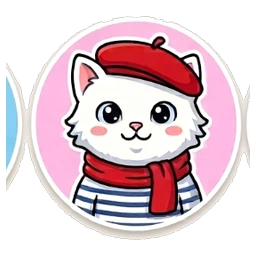
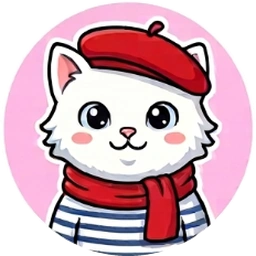
fix: 프로필 및 캐릭터 이미지 크롭 좌표 정밀 보정

diff --git a/index.html b/index.html
@@ -195,7 +195,7 @@
   </script>
 
   <!-- Custom CSS & Keyframe Animations -->
-  <link rel="stylesheet" href="css/style.css?v=3">
+  <link rel="stylesheet" href="css/style.css?v=5">
 </head>
 
 <body class="bg-slate-100 font-body-md text-body-md text-on-surface flex justify-center min-h-screen select-none antialiased">
@@ -215,7 +215,7 @@
             <!-- 상단 프로필 고양이 아바타 버튼 (클릭 시 프로필 선택 모달 열기) -->
             <button id="btn-header-profile" type="button" class="relative flex-shrink-0 cursor-pointer hover:scale-105 active:scale-95 transition-all p-0.5 rounded-full ring-2 ring-primary/25 hover:ring-primary focus:outline-none select-none" title="프로필 고양이 변경">
               <div class="w-10 h-10 rounded-full overflow-hidden flex items-center justify-center bg-secondary-fixed ring-1 ring-secondary-container shadow-sm">
-                <img id="header-mascot-img" alt="프로필 고양이" class="w-full h-full object-cover rounded-full" src="assets/profiles/profile-spanish.webp">
+                <img id="header-mascot-img" alt="프로필 고양이" class="w-full h-full object-cover rounded-full" src="assets/profiles/profile-spanish.webp?v=5">
               </div>
               <div class="absolute -bottom-1 -right-1 bg-surface-container-lowest border border-outline-variant/60 rounded-full w-4 h-4 shadow-sm flex items-center justify-center text-[9px] font-bold ring-1 ring-surface">
                 <span>✏</span>
@@ -981,7 +981,7 @@
           <div id="settings-streak-banner" class="mt-2 mb-2 bg-surface-container rounded-2xl p-4 flex items-center justify-between shadow-xs relative overflow-hidden">
             <div class="flex items-center gap-3 z-10">
               <div id="settings-streak-avatar-container" class="w-12 h-12 rounded-full overflow-hidden flex-shrink-0 shadow-sm bg-surface-container-lowest flex items-center justify-center ring-2 ring-primary/30 cursor-pointer hover:scale-105 active:scale-95 transition-transform" title="프로필 변경">
-                <img id="settings-streak-avatar-img" alt="프로필 고양이 아바타" class="w-full h-full object-cover rounded-full" src="assets/profiles/profile-spanish.webp"/>
+                <img id="settings-streak-avatar-img" alt="프로필 고양이 아바타" class="w-full h-full object-cover rounded-full" src="assets/profiles/profile-spanish.webp?v=5"/>
               </div>
               <div class="flex flex-col">
                 <div class="flex items-center gap-1.5">
@@ -1014,7 +1014,7 @@
               <!-- 1. 스페인 냥이 -->
               <button type="button" class="quick-avatar-btn flex flex-col items-center p-1.5 rounded-xl cursor-pointer hover:bg-slate-50 active:scale-95 transition-all text-center group" data-avatar-file="profile-spanish.webp" data-avatar-name="스페인 냥이">
                 <div class="quick-avatar-ring relative w-12 h-12 rounded-full p-0.5 border-2 border-primary bg-white shadow-xs transition-all">
-                  <img src="assets/profiles/profile-spanish.webp" alt="스페인 냥이" class="w-full h-full object-cover rounded-full">
+                  <img src="assets/profiles/profile-spanish.webp?v=5" alt="스페인 냥이" class="w-full h-full object-cover rounded-full">
                   <div class="quick-avatar-check absolute -top-1 -right-1 w-4 h-4 rounded-full bg-primary text-white flex items-center justify-center shadow-xs">
                     <span class="material-symbols-outlined text-[11px] font-bold">check</span>
                   </div>
@@ -1025,7 +1025,7 @@
               <!-- 2. 잉글리시 냥이 -->
               <button type="button" class="quick-avatar-btn flex flex-col items-center p-1.5 rounded-xl cursor-pointer hover:bg-slate-50 active:scale-95 transition-all text-center group" data-avatar-file="profile-english.webp" data-avatar-name="잉글리시 냥이">
                 <div class="quick-avatar-ring relative w-12 h-12 rounded-full p-0.5 border border-slate-200 bg-slate-50 transition-all">
-                  <img src="assets/profiles/profile-english.webp" alt="잉글리시 냥이" class="w-full h-full object-cover rounded-full">
+                  <img src="assets/profiles/profile-english.webp?v=5" alt="잉글리시 냥이" class="w-full h-full object-cover rounded-full">
                   <div class="quick-avatar-check hidden absolute -top-1 -right-1 w-4 h-4 rounded-full bg-primary text-white flex items-center justify-center shadow-xs">
                     <span class="material-symbols-outlined text-[11px] font-bold">check</span>
                   </div>
@@ -1036,7 +1036,7 @@
               <!-- 3. 아티스트 냥이 -->
               <button type="button" class="quick-avatar-btn flex flex-col items-center p-1.5 rounded-xl cursor-pointer hover:bg-slate-50 active:scale-95 transition-all text-center group" data-avatar-file="profile-artist.webp" data-avatar-name="아티스트 냥이">
                 <div class="quick-avatar-ring relative w-12 h-12 rounded-full p-0.5 border border-slate-200 bg-slate-50 transition-all">
-                  <img src="assets/profiles/profile-artist.webp" alt="아티스트 냥이" class="w-full h-full object-cover rounded-full">
+                  <img src="assets/profiles/profile-artist.webp?v=5" alt="아티스트 냥이" class="w-full h-full object-cover rounded-full">
                   <div class="quick-avatar-check hidden absolute -top-1 -right-1 w-4 h-4 rounded-full bg-primary text-white flex items-center justify-center shadow-xs">
                     <span class="material-symbols-outlined text-[11px] font-bold">check</span>
                   </div>
@@ -1047,7 +1047,7 @@
               <!-- 4. 탐험가 냥이 -->
               <button type="button" class="quick-avatar-btn flex flex-col items-center p-1.5 rounded-xl cursor-pointer hover:bg-slate-50 active:scale-95 transition-all text-center group" data-avatar-file="profile-explorer.webp" data-avatar-name="탐험가 냥이">
                 <div class="quick-avatar-ring relative w-12 h-12 rounded-full p-0.5 border border-slate-200 bg-slate-50 transition-all">
-                  <img src="assets/profiles/profile-explorer.webp" alt="탐험가 냥이" class="w-full h-full object-cover rounded-full">
+                  <img src="assets/profiles/profile-explorer.webp?v=5" alt="탐험가 냥이" class="w-full h-full object-cover rounded-full">
                   <div class="quick-avatar-check hidden absolute -top-1 -right-1 w-4 h-4 rounded-full bg-primary text-white flex items-center justify-center shadow-xs">
                     <span class="material-symbols-outlined text-[11px] font-bold">check</span>
                   </div>
@@ -1731,7 +1731,7 @@
         <div class="flex flex-col items-center justify-center mb-3.5">
           <div class="relative inline-block">
             <div id="current-avatar-container" class="w-[88px] h-[88px] rounded-full overflow-hidden border-4 border-[#22c55e] p-0.5 bg-white shadow-md relative flex items-center justify-center">
-              <img id="current-avatar-img" alt="선택된 프로필 고양이" class="w-full h-full object-cover rounded-full transition-transform duration-200" src="assets/profiles/profile-spanish.webp" />
+              <img id="current-avatar-img" alt="선택된 프로필 고양이" class="w-full h-full object-cover rounded-full transition-transform duration-200" src="assets/profiles/profile-spanish.webp?v=5" />
             </div>
             <div class="absolute bottom-0 right-0 w-7 h-7 bg-[#22c55e] text-white rounded-full flex items-center justify-center border-2 border-white shadow">
               <span class="material-symbols-outlined text-[15px]" style="font-variation-settings: 'FILL' 1;">pets</span>
@@ -1743,9 +1743,9 @@
         <div class="mb-4">
           <div class="flex items-center justify-between gap-2">
             <!-- 1. 스페인 냥이 (오렌지) -->
-            <button class="avatar-option flex flex-col items-center flex-1 py-1 rounded-xl cursor-pointer transition-all" data-avatar-id="spanish" data-avatar-name="스페인 냥이" data-avatar-file="profile-spanish.webp" data-avatar-src="assets/profiles/profile-spanish.webp" type="button">
+            <button class="avatar-option flex flex-col items-center flex-1 py-1 rounded-xl cursor-pointer transition-all" data-avatar-id="spanish" data-avatar-name="스페인 냥이" data-avatar-file="profile-spanish.webp" data-avatar-src="assets/profiles/profile-spanish.webp?v=5" type="button">
               <div class="avatar-ring relative w-[52px] h-[52px] rounded-full p-0.5 border-2 border-[#22c55e] bg-white transition-all shadow-xs">
-                <img src="assets/profiles/profile-spanish.webp" alt="스페인 냥이" class="w-full h-full object-cover rounded-full">
+                <img src="assets/profiles/profile-spanish.webp?v=5" alt="스페인 냥이" class="w-full h-full object-cover rounded-full">
                 <div class="avatar-check absolute -top-1 -right-1 w-4 h-4 rounded-full bg-[#22c55e] text-white flex items-center justify-center shadow-xs">
                   <span class="material-symbols-outlined text-[11px] font-bold">check</span>
                 </div>
@@ -1754,9 +1754,9 @@
             </button>
 
             <!-- 2. 잉글리시 냥이 (하늘색) -->
-            <button class="avatar-option flex flex-col items-center flex-1 py-1 rounded-xl cursor-pointer transition-all" data-avatar-id="english" data-avatar-name="잉글리시 냥이" data-avatar-file="profile-english.webp" data-avatar-src="assets/profiles/profile-english.webp" type="button">
+            <button class="avatar-option flex flex-col items-center flex-1 py-1 rounded-xl cursor-pointer transition-all" data-avatar-id="english" data-avatar-name="잉글리시 냥이" data-avatar-file="profile-english.webp" data-avatar-src="assets/profiles/profile-english.webp?v=5" type="button">
               <div class="avatar-ring relative w-[52px] h-[52px] rounded-full p-0.5 border border-slate-200 bg-slate-50 transition-all">
-                <img src="assets/profiles/profile-english.webp" alt="잉글리시 냥이" class="w-full h-full object-cover rounded-full">
+                <img src="assets/profiles/profile-english.webp?v=5" alt="잉글리시 냥이" class="w-full h-full object-cover rounded-full">
                 <div class="avatar-check hidden absolute -top-1 -right-1 w-4 h-4 rounded-full bg-[#22c55e] text-white flex items-center justify-center shadow-xs">
                   <span class="material-symbols-outlined text-[11px] font-bold">check</span>
                 </div>
@@ -1765,9 +1765,9 @@
             </button>
 
             <!-- 3. 아티스트 냥이 (핑크) -->
-            <button class="avatar-option flex flex-col items-center flex-1 py-1 rounded-xl cursor-pointer transition-all" data-avatar-id="artist" data-avatar-name="아티스트 냥이" data-avatar-file="profile-artist.webp" data-avatar-src="assets/profiles/profile-artist.webp" type="button">
+            <button class="avatar-option flex flex-col items-center flex-1 py-1 rounded-xl cursor-pointer transition-all" data-avatar-id="artist" data-avatar-name="아티스트 냥이" data-avatar-file="profile-artist.webp" data-avatar-src="assets/profiles/profile-artist.webp?v=5" type="button">
               <div class="avatar-ring relative w-[52px] h-[52px] rounded-full p-0.5 border border-slate-200 bg-slate-50 transition-all">
-                <img src="assets/profiles/profile-artist.webp" alt="아티스트 냥이" class="w-full h-full object-cover rounded-full">
+                <img src="assets/profiles/profile-artist.webp?v=5" alt="아티스트 냥이" class="w-full h-full object-cover rounded-full">
                 <div class="avatar-check hidden absolute -top-1 -right-1 w-4 h-4 rounded-full bg-[#22c55e] text-white flex items-center justify-center shadow-xs">
                   <span class="material-symbols-outlined text-[11px] font-bold">check</span>
                 </div>
@@ -1776,9 +1776,9 @@
             </button>
 
             <!-- 4. 탐험가 냥이 (민트) -->
-            <button class="avatar-option flex flex-col items-center flex-1 py-1 rounded-xl cursor-pointer transition-all" data-avatar-id="explorer" data-avatar-name="탐험가 냥이" data-avatar-file="profile-explorer.webp" data-avatar-src="assets/profiles/profile-explorer.webp" type="button">
+            <button class="avatar-option flex flex-col items-center flex-1 py-1 rounded-xl cursor-pointer transition-all" data-avatar-id="explorer" data-avatar-name="탐험가 냥이" data-avatar-file="profile-explorer.webp" data-avatar-src="assets/profiles/profile-explorer.webp?v=5" type="button">
               <div class="avatar-ring relative w-[52px] h-[52px] rounded-full p-0.5 border border-slate-200 bg-slate-50 transition-all">
-                <img src="assets/profiles/profile-explorer.webp" alt="탐험가 냥이" class="w-full h-full object-cover rounded-full">
+                <img src="assets/profiles/profile-explorer.webp?v=5" alt="탐험가 냥이" class="w-full h-full object-cover rounded-full">
                 <div class="avatar-check hidden absolute -top-1 -right-1 w-4 h-4 rounded-full bg-[#22c55e] text-white flex items-center justify-center shadow-xs">
                   <span class="material-symbols-outlined text-[11px] font-bold">check</span>
                 </div>
@@ -2479,12 +2479,12 @@
   </div>
 
   <!-- Application Data & Logic (단 하나의 유효한 스크립트 세트) -->
-  <script src="js/data.js?v=3"></script>
-  <script src="js/settings.js?v=3"></script>
-  <script src="js/flashcard.js?v=3"></script>
-  <script src="js/gameEngine.js?v=3"></script>
-  <script src="js/navigation.js?v=3"></script>
-  <script src="js/app.js?v=3"></script>
+  <script src="js/data.js?v=5"></script>
+  <script src="js/settings.js?v=5"></script>
+  <script src="js/flashcard.js?v=5"></script>
+  <script src="js/gameEngine.js?v=5"></script>
+  <script src="js/navigation.js?v=5"></script>
+  <script src="js/app.js?v=5"></script>
 
 </body>
 

diff --git a/js/settings.js b/js/settings.js
@@ -207,7 +207,7 @@
         window.applyProfileAvatar(profileVal);
       } else {
         const file = (profileVal.split('/').pop().split('?')[0]) || 'profile-spanish.webp';
-        const src = `assets/profiles/${file}`;
+        const src = `assets/profiles/${file}?v=5`;
         if (settingsAvatarImg) settingsAvatarImg.src = src;
         if (statsAvatarImg) statsAvatarImg.src = src;
         if (hallUserAvatar) hallUserAvatar.src = src;

diff --git a/js/app.js b/js/app.js
@@ -2358,7 +2358,7 @@ document.addEventListener('DOMContentLoaded', () => {
 
   function resolveAvatarSrc(val) {
     const file = resolveAvatarFile(val);
-    return `assets/profiles/${file}`;
+    return `assets/profiles/${file}?v=5`;
   }
 
   let selectedAvatarFile = 'profile-spanish.webp';
